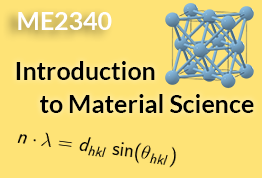
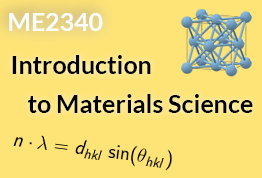
Added Noah to team, updated social photos and news, updated open positions, updated papers (combined preprints and published), added frontispiece of AdvFuncMat
Small update to ME2340 graphic.
Restructured fun.qmd page slightly.

diff --git a/content/papers.md b/content/papers.md
@@ -13,11 +13,15 @@ format:
 
 ## Highlights
 
-::: {layout="[[24.25,-0.5,24.25,-0.5,24.25,-0.5,24.25]]"}
+::: {layout="[[32.0,-2.0,32.0,-2.0,32.0]]"}
+![Illustration of our research displayed on the frontispiece of Advanced Functional Materials, 2024, volume 34, issue 19](../images/frontispiece_advfuncmat.jpg)
+
 ![Our research displayed on the supplementary cover of ACS Applied Materials and Interfaces, 2023, issue 15](../images/aami_suppl_cover.jpg)
 
 ![Illustration of our research displayed on the frontispiece of Advanced Materials, 2021, issue 44](../images/frontispiece_advmat.jpg)
+:::
 
+::: {layout="[[-17.0,32.0,-2.0,32.0,-17.0]]"}
 ![Our research displayed on the journal cover of ACS Energy Letters, 2019, issue 4](../images/cover_ACS_EL.jpg)
 
 ![Illustration of passivation-gas-incorporated ALD at the atomic scale. Nature Catalysis, 2018, issue 1](../images/naturecat.png)
@@ -30,49 +34,42 @@ format:
 ::: {.cell-output .cell-output-display}
 
 ```{=html}
-<ol class="rbracket" style="counter-reset: num 24;list-style-type: none;">
-<li value='23'>
+<ol class="rbracket" style="counter-reset: num 22;list-style-type: none;">
+<li value='21'>
+<i>Discovery of Stable Surfaces with Extreme Work Functions by High-Throughput Density Functional Theory and Machine Learning</i><br>
+<b>Advanced Functional Materials 34, 19 (2024)</b> 2401764<br>
+<small><em class="text-primary">P. Schindler</em>, E. R. Antoniuk, G. Cheon, Y. Zhu, and E. J. Reed</small><br>
+<a class="btn btn-outline-primary btn-sm", href="https://doi.org/10.1002/adfm.202401764" target="_blank" rel="noopener noreferrer">
+    <i class="ai ai-archive" role='img' aria-label='Published'></i> Published </a> <a class="btn btn-outline-primary btn-sm", href="https://arxiv.org/abs/2011.10905" target="_blank" rel="noopener noreferrer">
+    <i class="bi bi-file-earmark-pdf" role='img' aria-label='Preprint'></i> Preprint </a> <a class="btn btn-outline-primary btn-sm", href="https://github.com/d2r2group/WF-RF-Model/" target="_blank" rel="noopener noreferrer">
+    <i class="bi bi-github" role='img' aria-label='GitHub'></i> GitHub </a></li><li value='20'>
 <i>Revealing Large Room-Temperature Nernst Coefficients in 2D Materials by First-Principles Modeling</i><br>
-<b>Nanoscale  (2024)</b> <br>
+<b>Nanoscale 16, 12 (2024)</b> 6142–6150<br>
 <small>S. E. Rezaei and <em class="text-primary">P. Schindler</em></small><br>
 <a class="btn btn-outline-primary btn-sm", href="https://doi.org/10.1039/D3NR06127B" target="_blank" rel="noopener noreferrer">
-    <i class="ai ai-archive" role='img' aria-label='Published'></i> Published </a></li><li value='22'>
-<i>Revealing Large Room-Temperature Nernst Coefficients in 2D Materials by First-Principles Modeling</i><br>
-<b>ChemRxiv  (2023)</b> <br>
-<small>S. E. Rezaei and <em class="text-primary">P. Schindler</em></small><br>
-<a class="btn btn-outline-primary btn-sm", href="https://doi.org/10.26434/chemrxiv-2023-7p14b" target="_blank" rel="noopener noreferrer">
-    <i class="bi bi-file-earmark-pdf" role='img' aria-label='Preprint'></i> Preprint </a></li><li value='21'>
+    <i class="ai ai-archive" role='img' aria-label='Published'></i> Published </a> <a class="btn btn-outline-primary btn-sm", href="https://www.doi.org/10.26434/chemrxiv-2023-7p14b" target="_blank" rel="noopener noreferrer">
+    <i class="bi bi-file-earmark-pdf" role='img' aria-label='Preprint'></i> Preprint </a></li><li value='19'>
 <i>Electrolyte Coatings for High Adhesion Interfaces in Solid-State Batteries from First Principles</i><br>
 <b>ACS Applied Materials & Interfaces 15, 37 (2023)</b> 44394-44403<br>
 <small>B. Ransom, A. Ramdas, E. Lomeli, J. Fidawi, A. Sendek, T. Devereaux, E. J. Reed, and <em class="text-primary">P. Schindler</em></small><br>
 <a class="btn btn-outline-primary btn-sm", href="https://doi.org/10.1021/acsami.3c04452" target="_blank" rel="noopener noreferrer">
-    <i class="ai ai-archive" role='img' aria-label='Published'></i> Published </a></li><li value='20'>
-<i>Electrolyte Coatings for High Adhesion Interfaces in Solid-state Batteries from First Principles</i><br>
-<b>arXiv 2303.16350 [cond-mat.mtrl-sci] (2023)</b> <br>
-<small>B. Ransom, A. Ramdas, E. Lomeli, J. Fidawi, A. Sendek, T. Devereaux, E. Reed, and <em class="text-primary">P. Schindler</em></small><br>
-<a class="btn btn-outline-primary btn-sm", href="https://doi.org/10.48550/arXiv.2303.16350" target="_blank" rel="noopener noreferrer">
-    <i class="bi bi-file-earmark-pdf" role='img' aria-label='Preprint'></i> Preprint </a></li><li value='19'>
+    <i class="ai ai-archive" role='img' aria-label='Published'></i> Published </a> <a class="btn btn-outline-primary btn-sm", href="https://arxiv.org/abs/2303.16350" target="_blank" rel="noopener noreferrer">
+    <i class="bi bi-file-earmark-pdf" role='img' aria-label='Preprint'></i> Preprint </a></li><li value='18'>
 <i>Improving intrinsic oxygen reduction activity and stability: Atomic layer deposition preparation of platinum-titanium alloy catalysts</i><br>
 <b>Applied Catalysis B: Environmental 300 (2022)</b> 120741<br>
 <small>Y. Kim, S. Xu, J. Park, A. L. Dadlani, O. Vinogradova, D. Krishnamurthy, M. Orazov, D. U. Lee, S. Dull, <em class="text-primary">P. Schindler</em>, H. S. Han, Z. Wang, T. Graf, T. D. Schladt, J. E. Mueller, R. Sarangi, R. Davis, V. Viswanathan, T. F. Jaramillo, D. C. Higgins, and F. B. Prinz</small><br>
 <a class="btn btn-outline-primary btn-sm", href="https://doi.org/10.1016/j.apcatb.2021.120741" target="_blank" rel="noopener noreferrer">
-    <i class="ai ai-archive" role='img' aria-label='Published'></i> Published </a></li><li value='18'>
+    <i class="ai ai-archive" role='img' aria-label='Published'></i> Published </a></li><li value='17'>
 <i>Novel Ultrabright and Air-Stable Photocathodes Discovered from Machine Learning and Density Functional Theory Driven Screening</i><br>
 <b>Advanced Materials 33, 44 (2021)</b> 2104081<br>
 <small>E. R. Antoniuk, <em class="text-primary">P. Schindler</em>, W. A. Schroeder, B. Dunham, P. Pianetta, T. Vecchione, and E. J. Reed</small><br>
 <a class="btn btn-outline-primary btn-sm", href="https://doi.org/10.1002/adma.202104081" target="_blank" rel="noopener noreferrer">
-    <i class="ai ai-archive" role='img' aria-label='Published'></i> Published </a></li><li value='17'>
+    <i class="ai ai-archive" role='img' aria-label='Published'></i> Published </a></li><li value='16'>
 <i>Direct Integration of Strained-Pt Catalysts into Proton-Exchange-Membrane Fuel Cells with Atomic Layer Deposition</i><br>
 <b>Advanced Materials 33, 30 (2021)</b> 2007885<br>
 <small>S. Xu, Z. Wang, S. Dull, Y. Liu, D. U. Lee, J. S. Lezama Pacheco, M. Orazov, P. E. Vullum, A. L. Dadlani, O. Vinogradova, <em class="text-primary">P. Schindler</em>, Q. Tam, T. D. Schladt, J. E. Mueller, S. Kirsch, G. Huebner, D. Higgins, J. Torgersen, V. Viswanathan, T. F. Jaramillo, and F. B. Prinz</small><br>
 <a class="btn btn-outline-primary btn-sm", href="https://doi.org/10.1002/adma.202007885" target="_blank" rel="noopener noreferrer">
-    <i class="ai ai-archive" role='img' aria-label='Published'></i> Published </a></li><li value='16'>
-<i>Discovery of materials with extreme work functions by high-throughput density functional theory and machine learning</i><br>
-<b>arXiv 2011.10905 [cond-mat, physics:physics] (2020)</b> <br>
-<small><em class="text-primary">P. Schindler</em>, E. R. Antoniuk, G. Cheon, Y. Zhu, and E. J. Reed</small><br>
-<a class="btn btn-outline-primary btn-sm", href="https://doi.org/10.48550/arXiv.2011.10905" target="_blank" rel="noopener noreferrer">
-    <i class="bi bi-file-earmark-pdf" role='img' aria-label='Preprint'></i> Preprint </a> <a class="btn btn-outline-primary btn-sm", href="https://github.com/peterschindler/WorkFunctionDatabase" target="_blank" rel="noopener noreferrer">
-    <i class="bi bi-github" role='img' aria-label='GitHub'></i> GitHub </a></li><li value='15'>
+    <i class="ai ai-archive" role='img' aria-label='Published'></i> Published </a></li><li value='15'>
 <i>Generalizable density functional theory based photoemission model for the accelerated development of photocathodes and other photoemissive devices</i><br>
 <b>Physical Review B 101, 23 (2020)</b> 235447<br>
 <small>E. R. Antoniuk, Y. Yue, Y. Zhou, <em class="text-primary">P. Schindler</em>, W. A. Schroeder, B. Dunham, P. Pianetta, T. Vecchione, and E. J. Reed</small><br>
